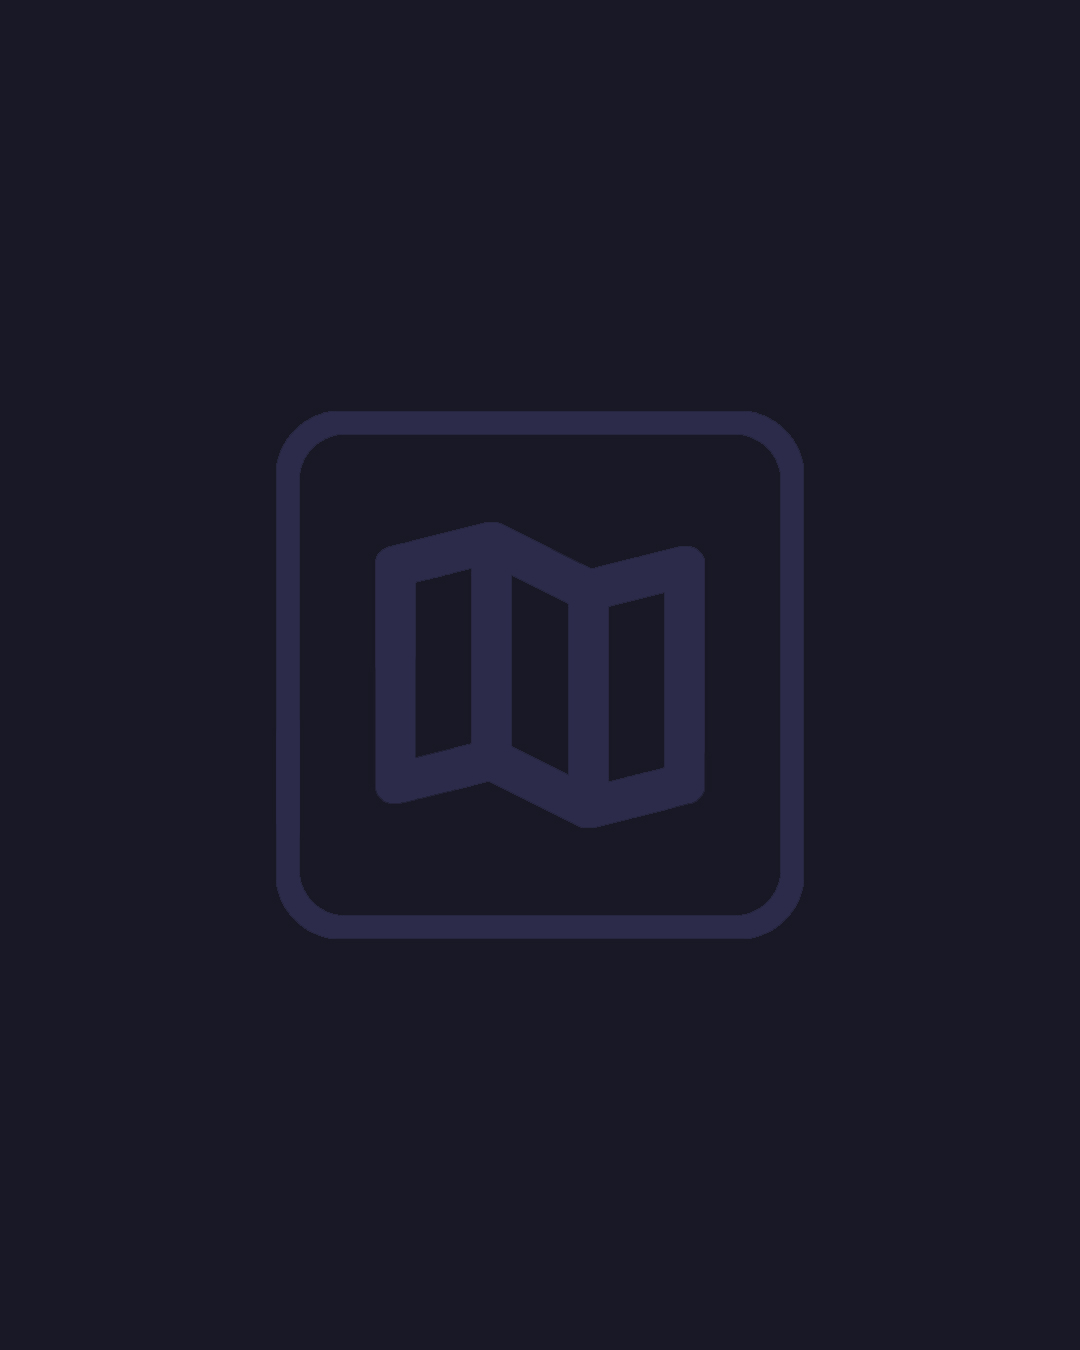
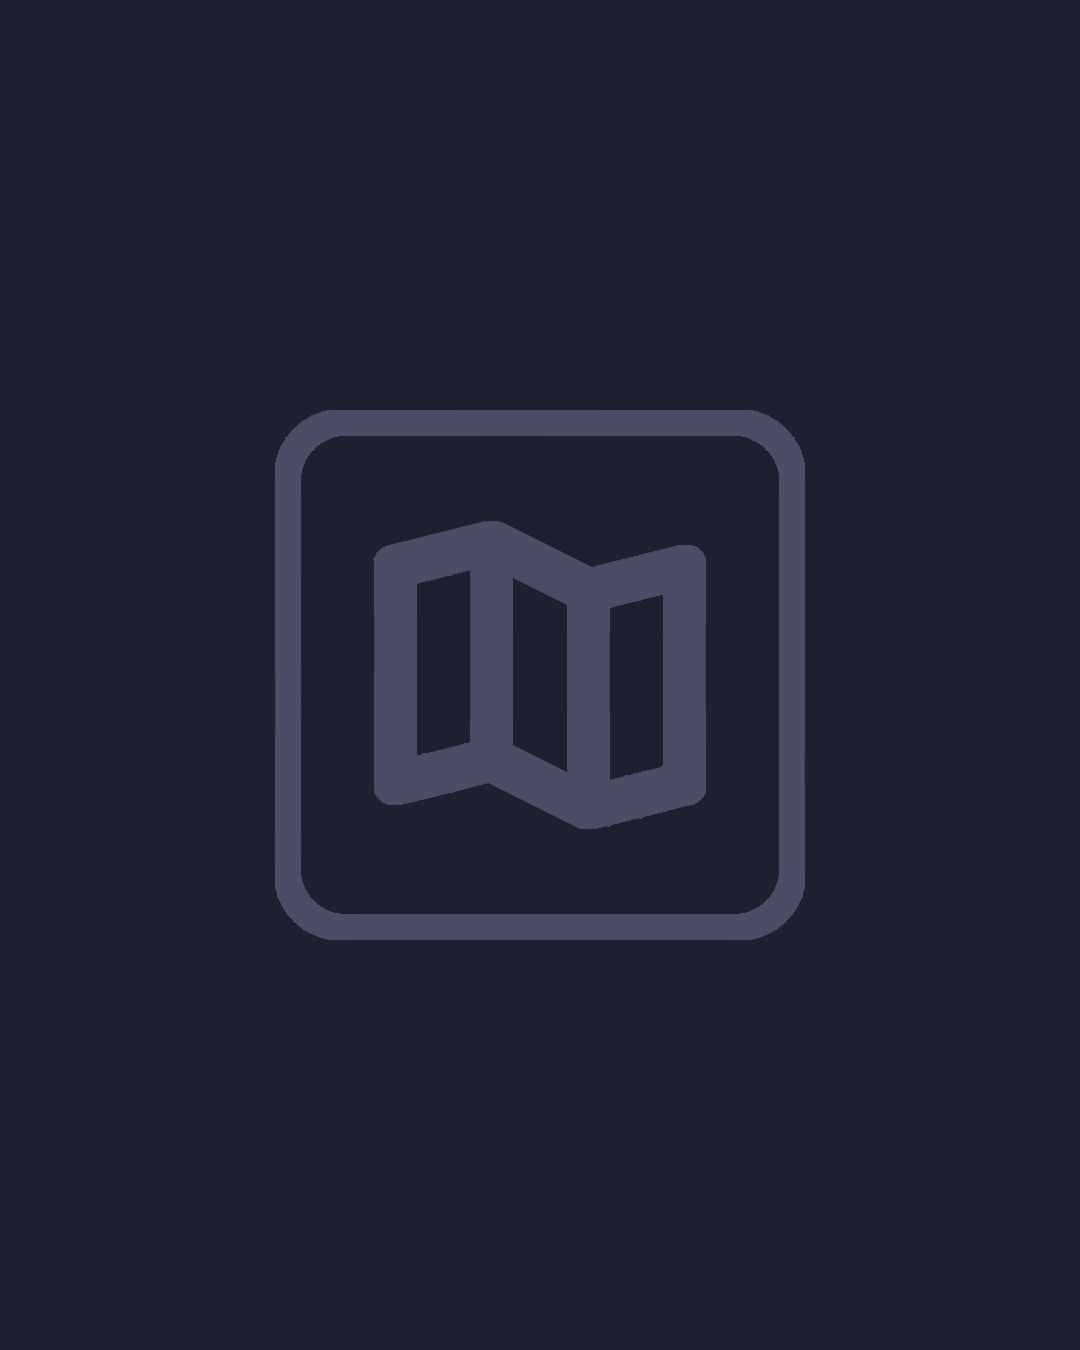
new color

Changed region(s): [[0.2444, 0.28, 0.7639, 0.7156], [0.3361, 0.3733, 0.6722, 0.6222]]

diff --git a/src/components/forms/AddItemForm.module.css b/src/components/forms/AddItemForm.module.css
@@ -2,12 +2,12 @@
     width: 100%;
     box-sizing: border-box;
     border-radius: 10px;
-    padding: 20px 30px;
-    background-color: #181825;
-    border: 1px solid #161823;
+    padding: 20px 30px 30px;
+    background-color: #1e2031;
+    /* border: 1px solid #3b3270; */
     display: flex;
     flex-direction: column;
-    transition: all 1.3s;
+    /* transition: all 1.3s; */
 }
 
 
@@ -16,14 +16,14 @@
 input,
 textarea,
 select {
-    background-color: #161622;
-    border: 1px solid #1f2334;
+    background-color: #1a1b2a;
+    border: 1px solid #26273d;
     font-family: "Roboto", sans-serif;
-    padding: 11px 6px;
+    padding: 11px;
     outline: none;
     font-size: 11px;
-    color: #8a8ea3;
-    border-radius: 4px;
+    color: #b6bad0;
+    border-radius: 12px;
     cursor: pointer;
 }
 
@@ -38,8 +38,8 @@ select:focus {
     outline: none;
     font-size: 11px;
     color: #a4aec1;
-    background-color: #1c1d2e;
-    border: 1px solid #2e334c;
+    background-color: #222331;
+    border: 1px solid #484a68;
 }
 
 input::placeholder {
@@ -57,7 +57,7 @@ textarea::placeholder {
 }
 
 span.input-info {
-    color: #777ea7;
+    color: #8990b5;
     margin: 15px 0 5px;
     font-size: 13px;
     font-family: "Roboto", sans-serif;

diff --git a/src/components/forms/auth/Auth.module.css b/src/components/forms/auth/Auth.module.css
@@ -25,6 +25,7 @@
 .inner .banner {
     background-color: rgb(15, 15, 15);
     overflow: hidden;
+    border-radius: 12px 0 0 12px;
 }
 
 .banner img {
@@ -37,6 +38,7 @@
     align-items: center;
     background-color: #10111a;
     padding: 30px 40px;
+    border-radius: 0 12px 12px 0;
 }
 
 .inner .form {
@@ -117,6 +119,7 @@
     width: 100%;
     padding: 11px 20px;
     background-color: #161723;
+    border-radius: 12px !important;
 }
 
 .label {
@@ -131,18 +134,18 @@
     border: none;
     cursor: pointer;
     padding: 13px 40px;
-    background-color: #975A5E;
+    background-color: #66347F;
     color: rgb(255, 255, 255);
     font-family: inherit;
-    font-size: 15px;
+    font-size: 14px;
     margin: 0 auto;
     margin-top: 27px;
-    border-radius: 6px;
+    border-radius: 18px;
     transition: all .5s ease-in-out;
 }
 
 .enter-btn:hover {
-    background-color: #a76569;
+    background-color: #7b4198;
 }
 
 .form .switch {

diff --git a/src/components/information/Information.module.css b/src/components/information/Information.module.css
@@ -17,7 +17,7 @@
     top: 25%;
     font-display: flex;
     justify-content: center;
-    border-radius: 8px;
+    border-radius: 16px;
     font-size: 14px;
     font-weight: 300;
     line-height: 17px;
@@ -29,9 +29,9 @@
 
 .information .inner .close {
     border: none;
-    border-radius: 4px;
+    border-radius: 12px;
     padding: 10px 17px;
-    background-color: #3e29bf;
+    background-color: #824D74;
     font-size: 12px;
     color: #d2dcee;
     margin-top: 20px;
@@ -40,7 +40,7 @@
 }
 
 .information .inner .close:hover {
-    background-color: #27bda8;
+    background-color: #9b4885;
 }
 
 .envelope {

diff --git a/src/pages/actor/Actor.module.css b/src/pages/actor/Actor.module.css
@@ -23,21 +23,17 @@
     font-size: 14px;
 }
 
+.actors .search input:hover {
+    border: 1px solid #975A5E !important;
+}
+
 .actors .reset-search {
     position: absolute;
     font-size: 17px;
-    color: #fff;
+    color: #ffffff;
     cursor: pointer;
     right: 17px;
     top: 14px;
-}
-
-.actors .reset-search:hover {
-    color: #fd8841;
-}
-
-.actors .search input:hover {
-    border: 1px solid #fd8841 !important;
 }
 
 .actor .info {
@@ -187,7 +183,7 @@
 }
 
 .actor .movies a:hover {
-    color: #fd8841;
+    color: #e2a6b6;
 }
 
 @media(max-width: 1100px) {

diff --git a/src/components/poster/PreviewPoster.module.css b/src/components/poster/PreviewPoster.module.css
@@ -15,8 +15,7 @@
     display: flex;
     overflow: hidden;
     flex-direction: column;
-    background-color: #181825;
-    border: 1px solid #161823;
+    background-color: #1e2031;
     border-radius: 10px;
     /* box-shadow: 0 2px 2px 0 rgba(37, 31, 83, 0.06), 0 4px 4px 0 rgba(37, 31, 83, 0.06), 0 6px 6px 0 rgba(37, 31, 83, 0.06), 0 16px 16px 0 rgba(37, 31, 83, 0.06), 0 32px 32px 0 rgba(37, 31, 83, 0.06), 0 64px 64px 0 rgba(37, 31, 83, 0.06); */
 }

diff --git a/src/components/preview/PreviewActor.module.css b/src/components/preview/PreviewActor.module.css
@@ -15,7 +15,6 @@
     width: 100%;
     height: 100%;
     object-fit: cover;
-    border: 1px solid #161823;
 }
 
 .info {
@@ -24,8 +23,7 @@
     padding: 20px;
     display: flex;
     flex-direction: column;
-    background-color: #181825;
-    border: 1px solid #161823;
+    background-color: #1e2031;
     border-radius: 10px;
 }
 

diff --git a/src/pages/movie/Movies.module.css b/src/pages/movie/Movies.module.css
@@ -198,10 +198,10 @@
 .action .watch {
     padding: 12px 18px;
     font-family: inherit;
-    font-weight: 500;
+    font-weight: 400;
     font-size: 12px;
     color: #fff;
-    background-color: #704264;
+    background-color: #824D74;
     border: none;
     border-radius: 8px;
     margin-right: 10px;

diff --git a/src/components/sliders/MainSlider.module.css b/src/components/sliders/MainSlider.module.css
@@ -122,7 +122,7 @@
 .carousel__inner-slide .watch {
     padding: 12px 20px;
     background-color: #66347F;
-    border-radius: 4px;
+    border-radius: 12px;
     color: #fff;
     font-family: inherit;
     font-size: 12px;
